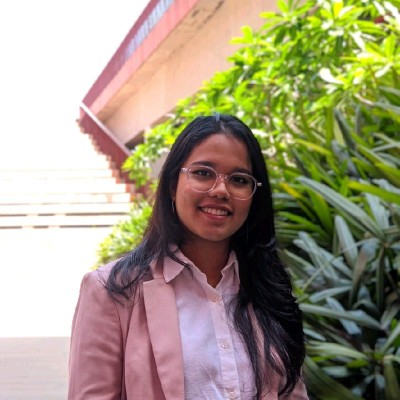
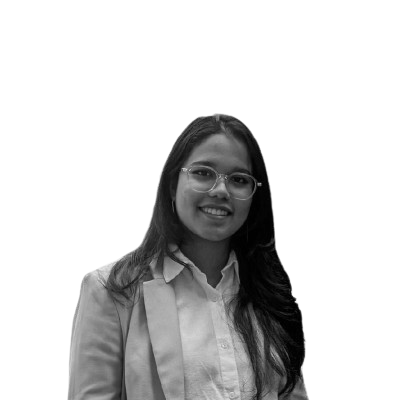
done

diff --git a/frontend/src/pages/Team.jsx b/frontend/src/pages/Team.jsx
@@ -10,7 +10,7 @@ const Team = () => {
       id: 1,
       name: 'Ronit Parakh',
       designation: 'Co-Lead',
-      imageUrl: '/src/removed bg alu/Unknown.jpeg',
+      imageUrl: '/src/img/alumni/jay.jpeg',
       linkedinUrl: 'https://www.linkedin.com/in/ronit-parakh/'
     },
     {
